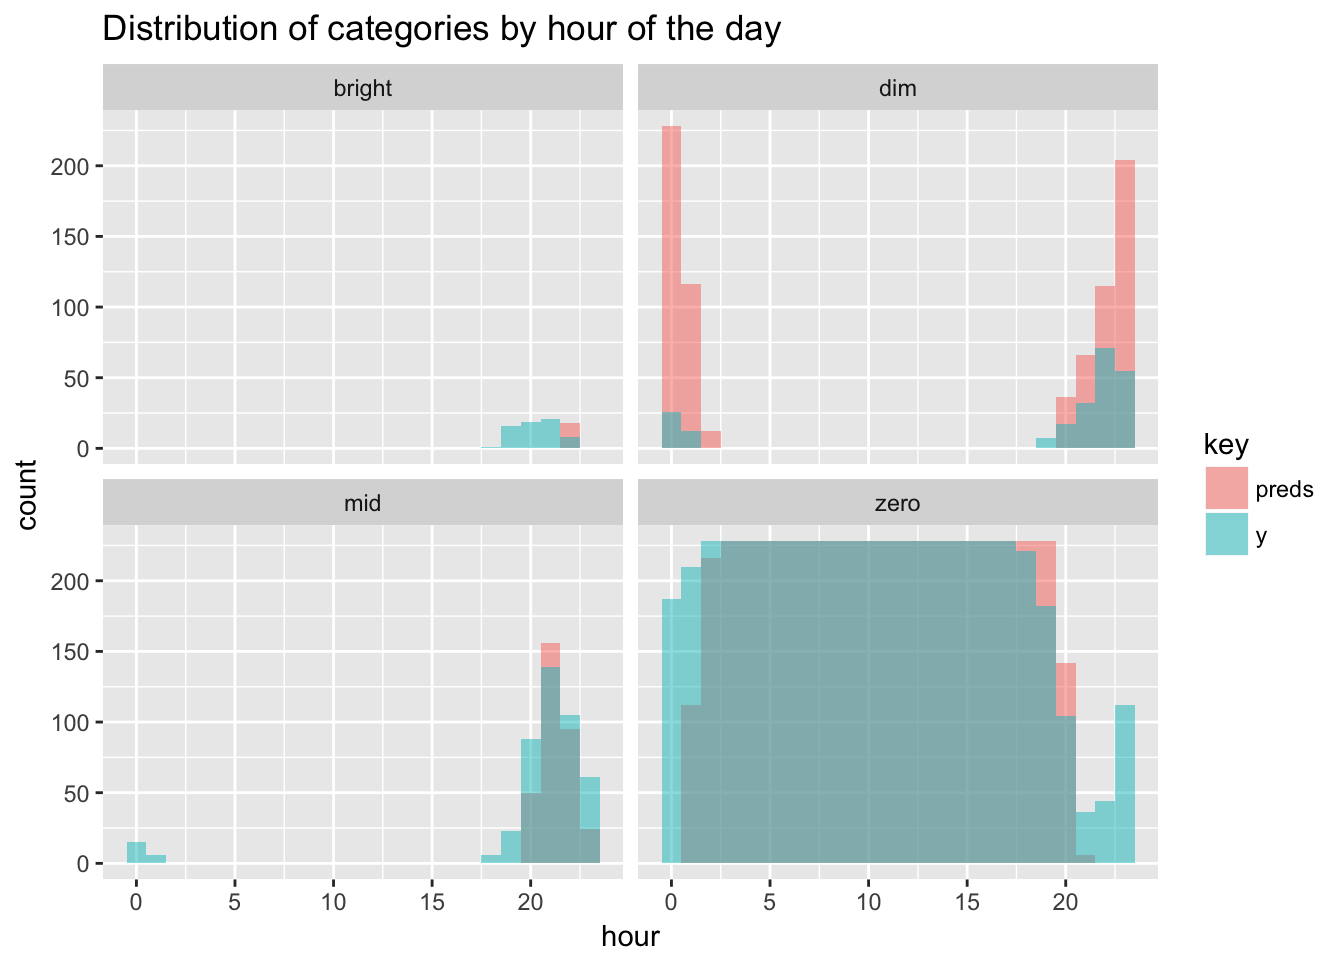
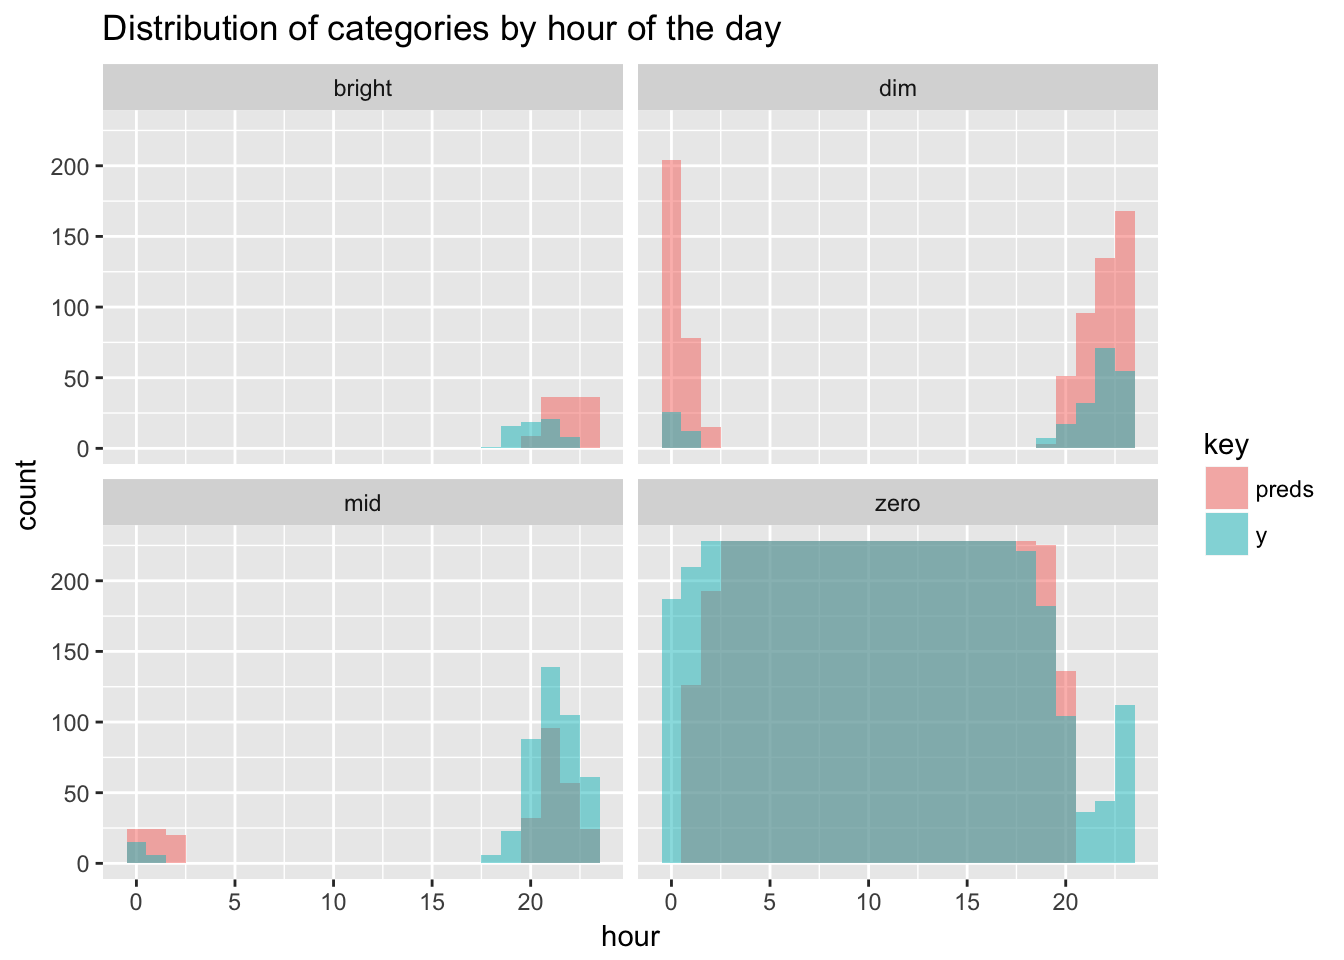
thumb try 3

diff --git a/blog/self-learning-hue-lights/index.html b/blog/self-learning-hue-lights/index.html
@@ -44,11 +44,11 @@
 
 
     
-    <link rel="stylesheet" href="../../css/reset.css?t=1507448525">
-    <link rel="stylesheet" href="../../css/pygments.css?t=1507448525">
-    <link rel="stylesheet" href="../../css/main.css?t=1507448525">
+    <link rel="stylesheet" href="../../css/reset.css?t=1507448977">
+    <link rel="stylesheet" href="../../css/pygments.css?t=1507448977">
+    <link rel="stylesheet" href="../../css/main.css?t=1507448977">
     
-        <link rel="stylesheet" href="../../css/override.css?t=1507448525">
+        <link rel="stylesheet" href="../../css/override.css?t=1507448977">
     
 
 
@@ -278,10 +278,10 @@ gbmFit &lt;- train(y ~ ., data = training,
 table(preds, testing$y)</code></pre>
 <pre><code>##         
 ## preds     dim  mid bright zero
-##   dim     107  186     15  469
-##   mid      80  151     23   71
-##   bright   11    6      0    1
-##   zero     22  100     27 4203</code></pre>
+##   dim     102  206     33  409
+##   mid      56   94      6  121
+##   bright   37   53      0   27
+##   zero     25   90     26 4187</code></pre>
 <p>Most mistakes are made trying to classify bright and mid. The model gets 0 bright values right and only manages to do so correctly 14% of the time for mid. But when do errors happen? To dig a little deeper let’s look at the previous histogram of categories by hour again for the test set, but now with the predictions overlaid on top.</p>
 <p><img src="../../blog/2017/2017-05-14-hue_files/figure-html/unnamed-chunk-11-1.png" width="672" /></p>
 <p>Bright values were always going be hard to guess, but the model at least comes close in terms of hours, but off on the exact days. The majority of misclassification comes from overzealously predicting dim in the evening and around midnight, when it should really be either mid or zero. That looks like a workable scenario for me.</p>

diff --git a/blog/a-tidy-text-analysis-of-rick-and-morty/index.html b/blog/a-tidy-text-analysis-of-rick-and-morty/index.html
@@ -44,11 +44,11 @@
 
 
     
-    <link rel="stylesheet" href="../../css/reset.css?t=1507448525">
-    <link rel="stylesheet" href="../../css/pygments.css?t=1507448525">
-    <link rel="stylesheet" href="../../css/main.css?t=1507448525">
+    <link rel="stylesheet" href="../../css/reset.css?t=1507448977">
+    <link rel="stylesheet" href="../../css/pygments.css?t=1507448977">
+    <link rel="stylesheet" href="../../css/main.css?t=1507448977">
     
-        <link rel="stylesheet" href="../../css/override.css?t=1507448525">
+        <link rel="stylesheet" href="../../css/override.css?t=1507448977">
     
 
 

diff --git a/blog/analyzing-my-spotify-listening-history/index.html b/blog/analyzing-my-spotify-listening-history/index.html
@@ -44,11 +44,11 @@
 
 
     
-    <link rel="stylesheet" href="../../css/reset.css?t=1507448525">
-    <link rel="stylesheet" href="../../css/pygments.css?t=1507448525">
-    <link rel="stylesheet" href="../../css/main.css?t=1507448525">
+    <link rel="stylesheet" href="../../css/reset.css?t=1507448977">
+    <link rel="stylesheet" href="../../css/pygments.css?t=1507448977">
+    <link rel="stylesheet" href="../../css/main.css?t=1507448977">
     
-        <link rel="stylesheet" href="../../css/override.css?t=1507448525">
+        <link rel="stylesheet" href="../../css/override.css?t=1507448977">
     
 
 

diff --git a/blog/creating-a-spotify-playlist-using-luigi/index.html b/blog/creating-a-spotify-playlist-using-luigi/index.html
@@ -44,11 +44,11 @@
 
 
     
-    <link rel="stylesheet" href="../../css/reset.css?t=1507448525">
-    <link rel="stylesheet" href="../../css/pygments.css?t=1507448525">
-    <link rel="stylesheet" href="../../css/main.css?t=1507448525">
+    <link rel="stylesheet" href="../../css/reset.css?t=1507448977">
+    <link rel="stylesheet" href="../../css/pygments.css?t=1507448977">
+    <link rel="stylesheet" href="../../css/main.css?t=1507448977">
     
-        <link rel="stylesheet" href="../../css/override.css?t=1507448525">
+        <link rel="stylesheet" href="../../css/override.css?t=1507448977">
     
 
 

diff --git a/blog/starting-a-blogdown/index.html b/blog/starting-a-blogdown/index.html
@@ -44,11 +44,11 @@
 
 
     
-    <link rel="stylesheet" href="../../css/reset.css?t=1507448525">
-    <link rel="stylesheet" href="../../css/pygments.css?t=1507448525">
-    <link rel="stylesheet" href="../../css/main.css?t=1507448525">
+    <link rel="stylesheet" href="../../css/reset.css?t=1507448977">
+    <link rel="stylesheet" href="../../css/pygments.css?t=1507448977">
+    <link rel="stylesheet" href="../../css/main.css?t=1507448977">
     
-        <link rel="stylesheet" href="../../css/override.css?t=1507448525">
+        <link rel="stylesheet" href="../../css/override.css?t=1507448977">
     
 
 

diff --git a/categories/r/index.html b/categories/r/index.html
@@ -44,11 +44,11 @@
 
 
     
-    <link rel="stylesheet" href="../../css/reset.css?t=1507448525">
-    <link rel="stylesheet" href="../../css/pygments.css?t=1507448525">
-    <link rel="stylesheet" href="../../css/main.css?t=1507448525">
+    <link rel="stylesheet" href="../../css/reset.css?t=1507448977">
+    <link rel="stylesheet" href="../../css/pygments.css?t=1507448977">
+    <link rel="stylesheet" href="../../css/main.css?t=1507448977">
     
-        <link rel="stylesheet" href="../../css/override.css?t=1507448525">
+        <link rel="stylesheet" href="../../css/override.css?t=1507448977">
     
 
 

diff --git a/tags/dplyr/index.html b/tags/dplyr/index.html
@@ -44,11 +44,11 @@
 
 
     
-    <link rel="stylesheet" href="../../css/reset.css?t=1507448525">
-    <link rel="stylesheet" href="../../css/pygments.css?t=1507448525">
-    <link rel="stylesheet" href="../../css/main.css?t=1507448525">
+    <link rel="stylesheet" href="../../css/reset.css?t=1507448977">
+    <link rel="stylesheet" href="../../css/pygments.css?t=1507448977">
+    <link rel="stylesheet" href="../../css/main.css?t=1507448977">
     
-        <link rel="stylesheet" href="../../css/override.css?t=1507448525">
+        <link rel="stylesheet" href="../../css/override.css?t=1507448977">
     
 
 

diff --git a/tags/ggplot/index.html b/tags/ggplot/index.html
@@ -44,11 +44,11 @@
 
 
     
-    <link rel="stylesheet" href="../../css/reset.css?t=1507448525">
-    <link rel="stylesheet" href="../../css/pygments.css?t=1507448525">
-    <link rel="stylesheet" href="../../css/main.css?t=1507448525">
+    <link rel="stylesheet" href="../../css/reset.css?t=1507448977">
+    <link rel="stylesheet" href="../../css/pygments.css?t=1507448977">
+    <link rel="stylesheet" href="../../css/main.css?t=1507448977">
     
-        <link rel="stylesheet" href="../../css/override.css?t=1507448525">
+        <link rel="stylesheet" href="../../css/override.css?t=1507448977">
     
 
 

diff --git a/tags/hue/index.html b/tags/hue/index.html
@@ -44,11 +44,11 @@
 
 
     
-    <link rel="stylesheet" href="../../css/reset.css?t=1507448525">
-    <link rel="stylesheet" href="../../css/pygments.css?t=1507448525">
-    <link rel="stylesheet" href="../../css/main.css?t=1507448525">
+    <link rel="stylesheet" href="../../css/reset.css?t=1507448977">
+    <link rel="stylesheet" href="../../css/pygments.css?t=1507448977">
+    <link rel="stylesheet" href="../../css/main.css?t=1507448977">
     
-        <link rel="stylesheet" href="../../css/override.css?t=1507448525">
+        <link rel="stylesheet" href="../../css/override.css?t=1507448977">
     
 
 

diff --git a/tags/luigi/index.html b/tags/luigi/index.html
@@ -44,11 +44,11 @@
 
 
     
-    <link rel="stylesheet" href="../../css/reset.css?t=1507448525">
-    <link rel="stylesheet" href="../../css/pygments.css?t=1507448525">
-    <link rel="stylesheet" href="../../css/main.css?t=1507448525">
+    <link rel="stylesheet" href="../../css/reset.css?t=1507448977">
+    <link rel="stylesheet" href="../../css/pygments.css?t=1507448977">
+    <link rel="stylesheet" href="../../css/main.css?t=1507448977">
     
-        <link rel="stylesheet" href="../../css/override.css?t=1507448525">
+        <link rel="stylesheet" href="../../css/override.css?t=1507448977">
     
 
 

diff --git a/tags/plot/index.html b/tags/plot/index.html
@@ -44,11 +44,11 @@
 
 
     
-    <link rel="stylesheet" href="../../css/reset.css?t=1507448525">
-    <link rel="stylesheet" href="../../css/pygments.css?t=1507448525">
-    <link rel="stylesheet" href="../../css/main.css?t=1507448525">
+    <link rel="stylesheet" href="../../css/reset.css?t=1507448977">
+    <link rel="stylesheet" href="../../css/pygments.css?t=1507448977">
+    <link rel="stylesheet" href="../../css/main.css?t=1507448977">
     
-        <link rel="stylesheet" href="../../css/override.css?t=1507448525">
+        <link rel="stylesheet" href="../../css/override.css?t=1507448977">
     
 
 

diff --git a/tags/purrr/index.html b/tags/purrr/index.html
@@ -44,11 +44,11 @@
 
 
     
-    <link rel="stylesheet" href="../../css/reset.css?t=1507448525">
-    <link rel="stylesheet" href="../../css/pygments.css?t=1507448525">
-    <link rel="stylesheet" href="../../css/main.css?t=1507448525">
+    <link rel="stylesheet" href="../../css/reset.css?t=1507448977">
+    <link rel="stylesheet" href="../../css/pygments.css?t=1507448977">
+    <link rel="stylesheet" href="../../css/main.css?t=1507448977">
     
-        <link rel="stylesheet" href="../../css/override.css?t=1507448525">
+        <link rel="stylesheet" href="../../css/override.css?t=1507448977">
     
 
 
